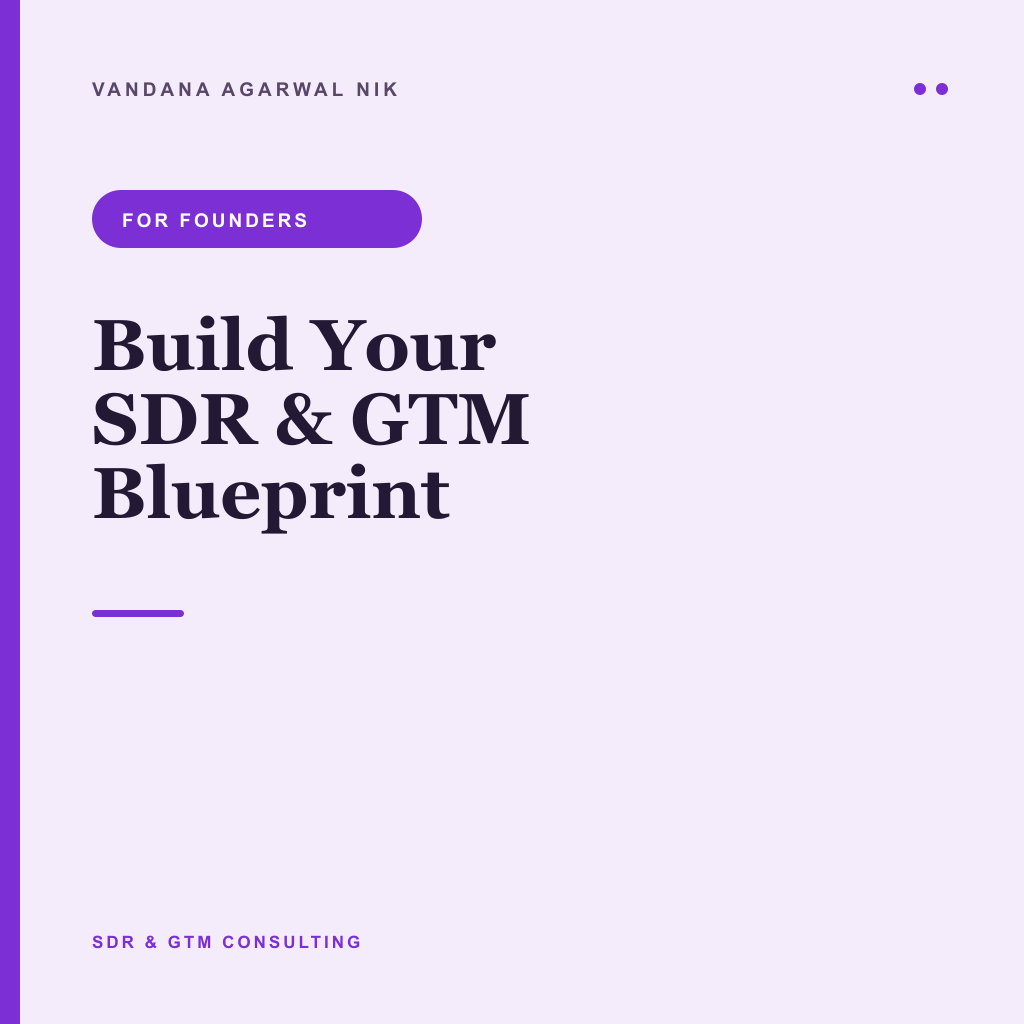
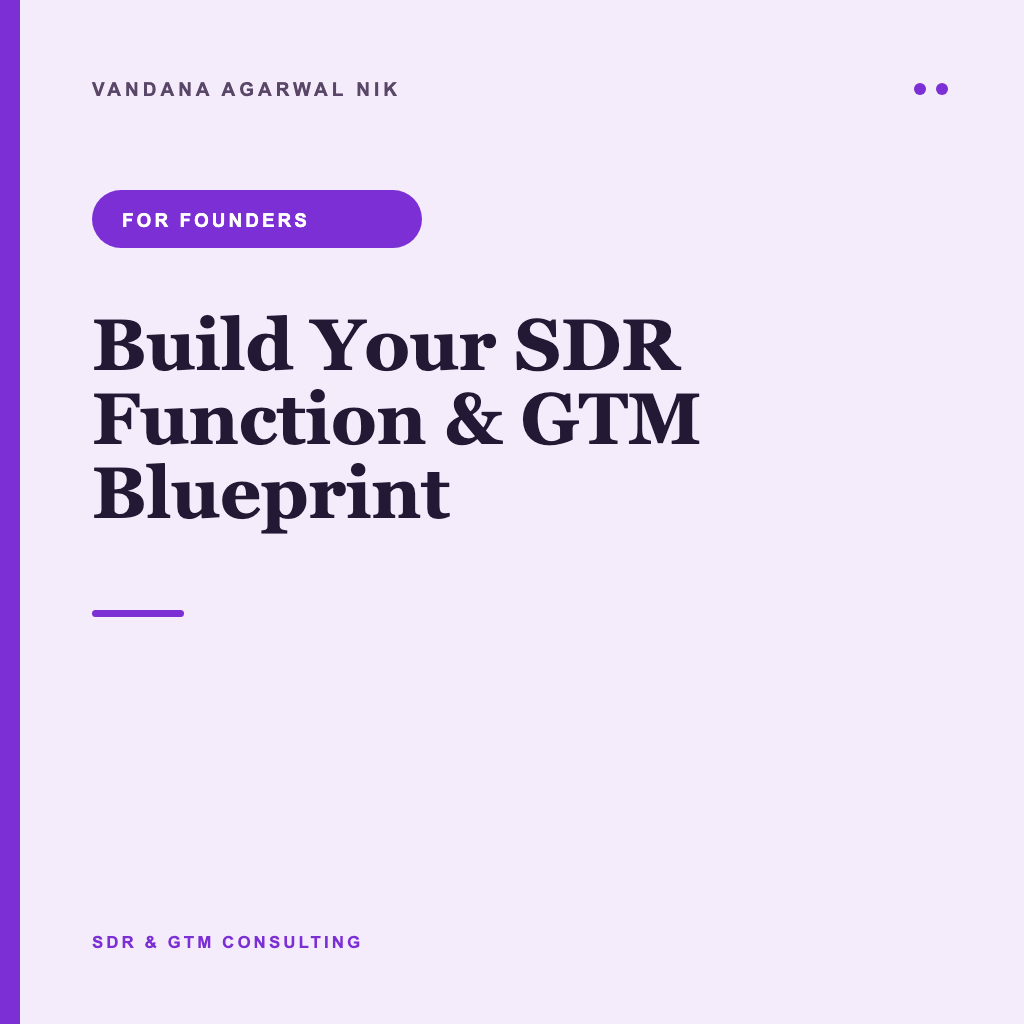
Update Topmate cover images to match live offer names

diff --git a/extras/Topmate-Four-Offers-Updated.md b/extras/Topmate-Four-Offers-Updated.md
@@ -33,7 +33,7 @@ Booking question: Where are you in your SDR journey, and what would you most lik
 
 Settings: Keep your existing price. Choose a fixed booking duration within the 15–20 minute range.
 
-## 2. Personalized SDR Mentorship Program
+## 2. 1:1 Mentorship Program
 
 Existing listing: https://topmate.io/vandana_agarwal/2132282
 
@@ -49,7 +49,7 @@ Included service thumbnail: [Single-session thumbnail](topmate-media-simple/ment
 
 Short description:
 
-Eight personalized sessions to build SDR skills, confidence, and career direction.
+Sustained 1:1 mentorship over 6 to 8 weeks to build SDR skills, confidence, and career direction.
 
 Full description:
 
@@ -118,7 +118,7 @@ Booking question: Which repetitive SDR task would you like to improve, and which
 
 Settings: ₹1,699. The website previously assumed 60 minutes; choose the duration you actually want to deliver before publishing the listing. Share its direct booking link once created.
 
-## 4. Build Your SDR & GTM Blueprint
+## 4. Build Your SDR Function & GTM Blueprint
 
 Existing consultation: https://topmate.io/vandana_agarwal/2131945
 
